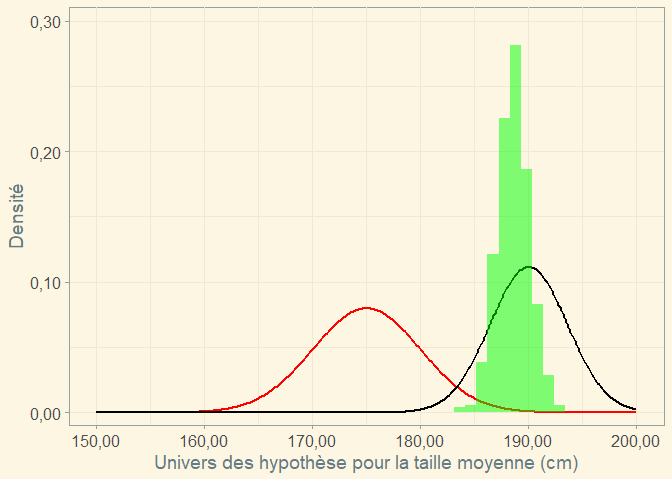
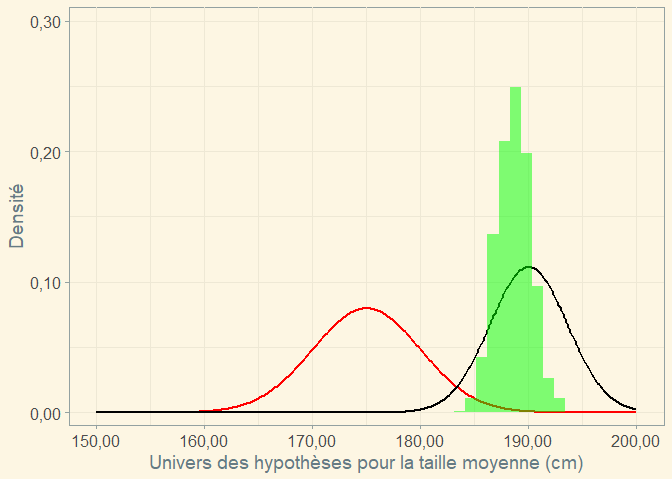
adding english figures

diff --git a/scripts/IntrotoBayes_normal_example.md b/scripts/IntrotoBayes_normal_example.md
@@ -23,3 +23,24 @@ Distribution postérieure simulée par échantillonnage (n=1000)
 (uniquement la postérieure)
 
 ![](IntrotoBayes_normal_example_files/figure-gfm/posterior%20simulation2%20-1.png)<!-- -->
+
+*Figures en anglais*
+
+![](IntrotoBayes_normal_example_files/figure-gfm/prior%20graph%20EN%20-1.png)<!-- -->
+
+A look at the likelihood - figure 2
+
+![](IntrotoBayes_normal_example_files/figure-gfm/likelihood%20graph%20EN-1.png)<!-- -->
+
+Distribution postérieure simulée par échantillonnage (n=1000)
+
+![](IntrotoBayes_normal_example_files/figure-gfm/posterior%20simulation%20EN-1.png)<!-- -->
+
+Distribution postérieure théorique
+
+![](IntrotoBayes_normal_example_files/figure-gfm/posterior%20theo%20EN%20-1.png)<!-- -->
+
+Distribution postérieure simulée par échantillonnage (n=1000)
+(uniquement la postérieure)
+
+![](IntrotoBayes_normal_example_files/figure-gfm/posterior%20simulation2%20EN%20-1.png)<!-- -->
